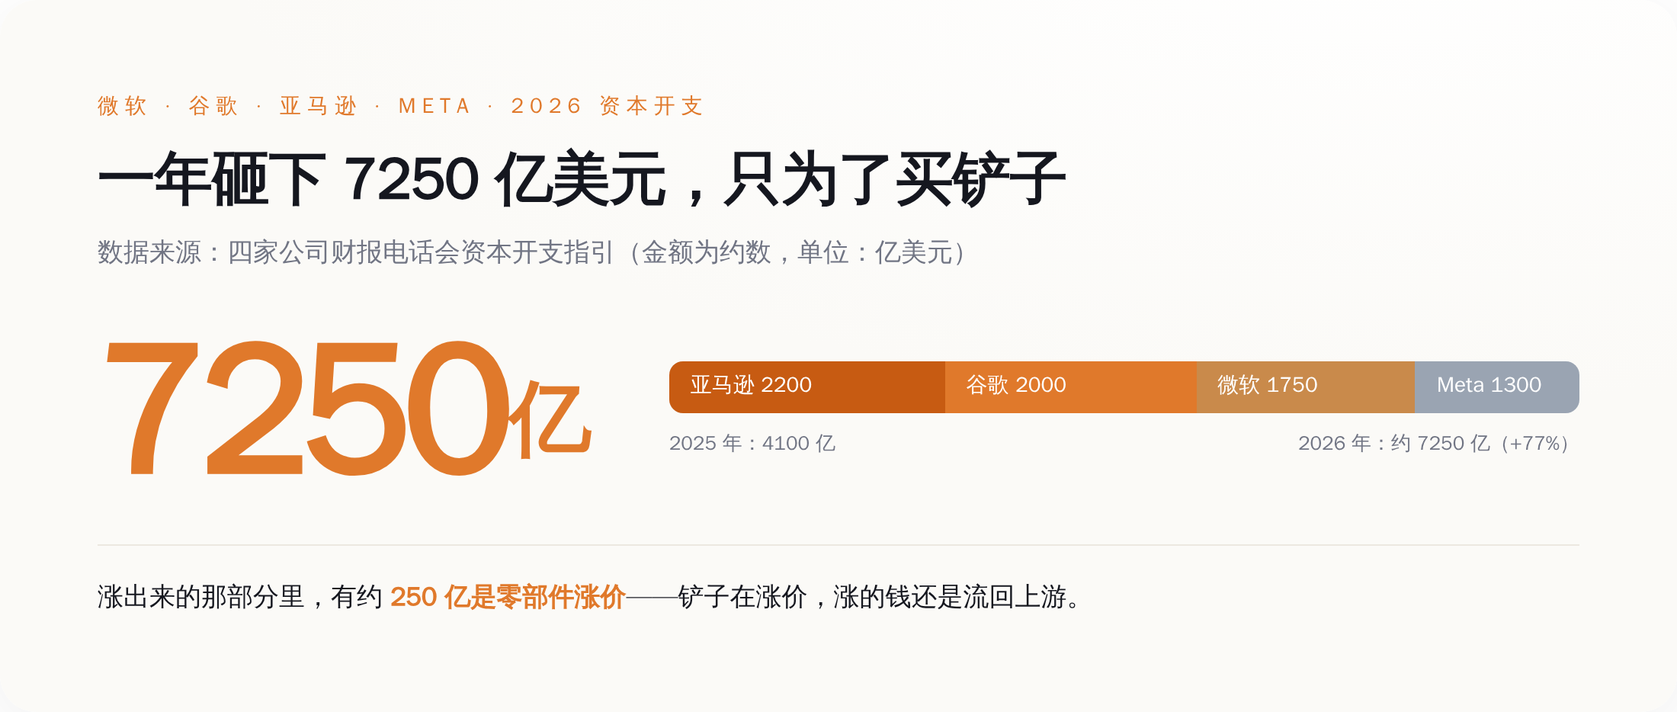
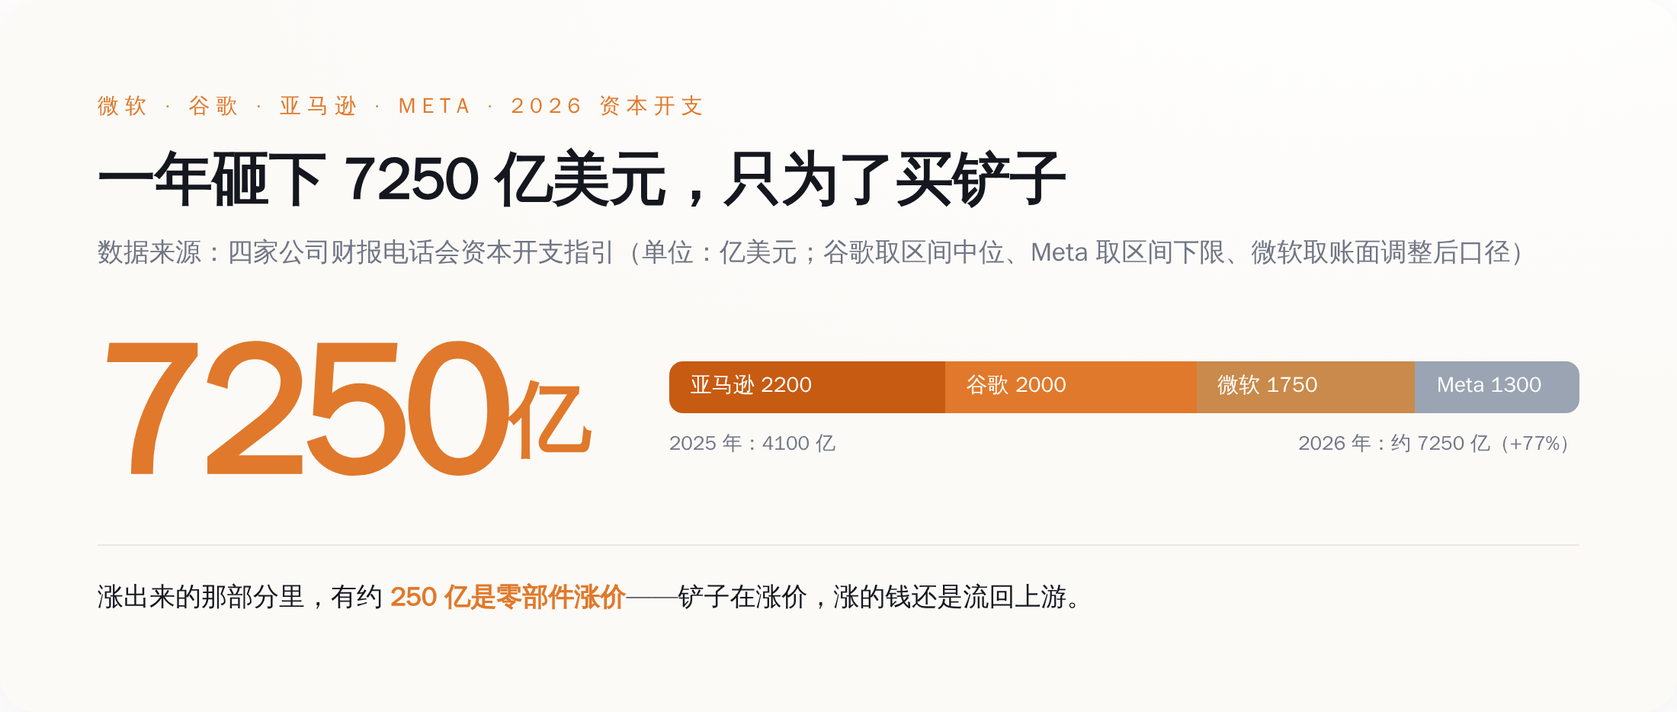
revise: 五刀审稿修订《卖铲子的在数钱》——修口径与AI味
事实刀：英伟达三个报告期显式标注（FY26全年/FY26 Q4/Q1 FY27），
微软 1900→1750 亿澄清为账面摊销口径而非现金减少，1.4万亿/6000亿
说明时间跨度不同不可直接算腰斩，capex 图标注取值口径，86% 澄清为
GPU 细分赛道份额。AI味刀：去"某种意义上/一目了然/囚徒困境"等 AI 腔，
补循环交易但书。

Claude-Session: https://claude.ai/code/session_01HJpunS2v5D8MvqY9bvffre

Changed region(s): [[0.3709, 0.3415, 0.8964, 0.3726]]

diff --git a/posts/2026-08-17/ai-shovel-sellers-count-cash/article.html b/posts/2026-08-17/ai-shovel-sellers-count-cash/article.html
@@ -384,11 +384,13 @@
 
     <p>但真正吓人的不是营收，是毛利率。</p>
 
-    <p>英伟达 2026 财年第四季度的 GAAP 毛利率是 75%。这是个什么概念？意思是它卖一块 AI 芯片，收你 100 块，成本只有 25 块，剩下 75 块是毛利。这个毛利率高到什么地步——全世界能把芯片做到这个毛利的公司，一只手数得过来，而且没一个是靠卖硬件卖出来的。单是那一个季度，英伟达的净利润就有约 430 亿美元，同比又涨了 94%。</p>
+    <p>看它 2026 财年第四季度（就是上面那个 Q1 FY27 的前一个季度）的 GAAP 毛利率：75%。这是个什么概念？意思是它卖一块 AI 芯片，收你 100 块，成本只有 25 块，剩下 75 块是毛利。这个毛利率高到什么地步——全世界能把芯片做到这个毛利的公司，一只手数得过来，而且没一个是靠卖硬件卖出来的。就这一个季度（FY26 Q4），英伟达的净利润约 430 亿美元，同比又涨了 94%。</p>
 
-    <figure style="margin:32px 0;text-align:center"><img src="images/illus_01.png" alt="图注：这轮 AI 里花掉的每 100 块钱，有一大截先流进了英伟达——它卖 AI 芯片的毛利率是罕见的 75%。" style="max-width:100%;border-radius:12px;box-shadow:0 4px 20px rgba(0,0,0,.08)"><figcaption style="font-size:13px;color:#888;margin-top:10px;line-height:1.5">图注：这轮 AI 里花掉的每 100 块钱，有一大截先流进了英伟达——它卖 AI 芯片的毛利率是罕见的 75%。</figcaption></figure>
+    <p>![图注：这轮 AI 里花掉的每 100 块钱，有一大截先流进了英伟达——它卖 AI 芯片的毛利率是罕见的 75%。](images/illus_01.png)</p>
 
-    <p>一家硬件公司，能做到软件公司才有的毛利率，说明什么？说明它没有对手。它自己也承认，全球 AI 加速器市场它占了大约 86%——剩下 AMD、英特尔们分那 14%。买家想换供应商？没得换。这不叫卖货，这叫收过路费，而且是全行业唯一一条路上的过路费。</p>
+    <p>*图注：这轮 AI 里花掉的每 100 块钱，有一大截先流进了英伟达——它卖 AI 芯片的毛利率是罕见的 75%。*</p>
+
+    <p>一家硬件公司，能做到软件公司才有的毛利率，说明什么？说明它没有对手。它自己也承认，全球 AI 加速器（也就是 GPU 这个细分赛道，不是整个芯片市场）它占了大约 86%——剩下 AMD、英特尔们分那 14%。买家想换供应商？没得换。这不叫卖货，这叫收过路费，而且是全行业唯一一条路上的过路费。</p>
 
     <p>所以你看，这轮 AI 到底谁在赚钱，答案清清楚楚地写在英伟达的财报里。它甚至不需要自己去猜哪个大模型会赢——反正淘金的都得来它这买铲子，谁赢它都赚。</p>
 
@@ -404,16 +406,18 @@
 
     <ul><li><strong>亚马逊</strong>：把 2026 年的数字抬到了约 2200 亿美元；</li>
 <li><strong>谷歌</strong>：1950 到 2050 亿之间；</li>
-<li><strong>微软</strong>：定在 1900 亿（后来因为一个会计口径的调整，摊销年限拉长，账面数字降到约 1750 亿——但钱该花还是花）；</li>
+<li><strong>微软</strong>：指引定在 1900 亿（后来财报里又出现过一个约 1750 亿的说法——那是把数据中心摊销年限拉长之后、账面表述上的变化，不代表现金真的少掏了；钱该花还是花）；</li>
 <li><strong>Meta</strong>：guidance 下限抬到 1300 到 1450 亿。</li>
 </ul>
 微软的 CFO 在电话会上还补了一句大实话：这 1900 亿里，有大约 250 亿纯粹是因为内存、存储这些零部件涨价涨出来的。翻译一下——铲子不光要买得多，铲子本身还在涨价。而涨价涨的钱，最后又流回了上游。
 
-    <figure style="margin:32px 0;text-align:center"><img src="images/illus_02.png" alt="图注：四家云巨头 2026 年合计 capex 约 7250 亿美元，同比 +77%——这是一场没人敢先停手的军备竞赛。" style="max-width:100%;border-radius:12px;box-shadow:0 4px 20px rgba(0,0,0,.08)"><figcaption style="font-size:13px;color:#888;margin-top:10px;line-height:1.5">图注：四家云巨头 2026 年合计 capex 约 7250 亿美元，同比 +77%——这是一场没人敢先停手的军备竞赛。</figcaption></figure>
+    <p>![图注：四家云巨头 2026 年合计 capex 约 7250 亿美元，同比 +77%——这是一场没人敢先停手的军备竞赛。](images/illus_02.png)</p>
 
-    <p>这四家为什么敢这么砸？因为谁都不敢先停手。停手就等于承认自己在 AI 上认输，股价当场就得挨捶。于是就变成了一个囚徒困境：明知道可能砸过头，但只要对手在砸，我就必须跟着砸。而这场谁都不敢停的军备竞赛里，卖军火的英伟达笑得最开心——你们尽管卷，卷得越狠，我卖得越多。</p>
+    <p>*图注：四家云巨头 2026 年合计 capex 约 7250 亿美元，同比 +77%——这是一场没人敢先停手的军备竞赛。*</p>
 
-    <p>有意思的是，这四家今年集体学乖了一招：土地、厂房、拉电这种用几十年的长期资产，早早锁定；但占大头成本的芯片，尽量拖到真正要用之前几个月才下单，等看清了需求再掏钱。说白了，是给自己留了个刹车。他们嘴上说"回报很确定"，身体却很诚实地在给这场豪赌加装安全带。</p>
+    <p>这四家为什么敢这么砸？因为谁都不敢先停手。停手就等于承认自己在 AI 上认输，股价当场就得挨捶。于是就变成了比谁先怂：明知道可能砸过头，但只要对手还在砸，谁先喊停，谁就先被市场当成认输的那个。而这场谁都不敢停的军备竞赛里，卖军火的英伟达笑得最开心——你们尽管卷，卷得越狠，我卖得越多。</p>
+
+    <p>今年这四家还学会一招骚操作，挺鸡贼的：土地、厂房、拉电这种用几十年的长期资产，早早锁定；但占大头成本的芯片，尽量拖到真正要用之前几个月才下单，等看清了需求再掏钱。说白了，是给自己留了脚刹车。嘴上喊着"回报很确定"，身体却很诚实地在给这场豪赌系安全带。</p>
 
     <hr>
 
@@ -427,9 +431,11 @@
 
     <p>OpenAI 2025 年一整年的实际收入是 131 亿美元，同一年它净烧掉了大约 80 亿。也就是说，赚一块钱的同时得倒贴六毛多出去。这还是在收入高速增长的前提下——增长越快，烧得越狠，因为每多服务一个用户，就得多买一份算力。</p>
 
-    <p>更刺激的是承诺。它的老板 Sam Altman 亲口说过，OpenAI 已经签下了大约 1.4 万亿美元的数据中心和算力承诺，横跨未来八年，签约对象是英伟达、AMD、博通这一串卖铲子的。1.4 万亿是什么概念？是它 2025 年收入的一百多倍。后来大概是自己也觉得这个数字太吓人，又对投资人把口径收了收，改成到 2030 年花约 6000 亿。收就收吧，6000 亿也还是它现在年收入的十几倍。</p>
+    <p>更刺激的是承诺。它的老板 Sam Altman 亲口说过，OpenAI 已经签下了大约 1.4 万亿美元的数据中心和算力承诺，横跨未来八年，签约对象是英伟达、AMD、博通这一串卖铲子的。1.4 万亿是什么概念？是它 2025 年收入的一百多倍。后来大概是自己也觉得这个数字太吓人，又对投资人换了个说法：到 2030 年花约 6000 亿。得说清楚，这俩数不是同一把尺子——1.4 万亿是往后八年的总承诺，6000 亿只算到 2030 年那四五年，不能直接拿来算"腰斩"。但就算只掐这一段，6000 亿也还是它现在年收入的十几倍。</p>
 
-    <figure style="margin:32px 0;text-align:center"><img src="images/illus_03.png" alt="图注：OpenAI 账面上的风光（年化 400 亿、冲万亿 IPO）和账本里的真相（2025 年净烧 80 亿、算力承诺 1.4 万亿），是两回事。" style="max-width:100%;border-radius:12px;box-shadow:0 4px 20px rgba(0,0,0,.08)"><figcaption style="font-size:13px;color:#888;margin-top:10px;line-height:1.5">图注：OpenAI 账面上的风光（年化 400 亿、冲万亿 IPO）和账本里的真相（2025 年净烧 80 亿、算力承诺 1.4 万亿），是两回事。</figcaption></figure>
+    <p>![图注：OpenAI 账面上的风光（年化 400 亿、冲万亿 IPO）和账本里的真相（2025 年净烧 80 亿、算力承诺 1.4 万亿），是两回事。](images/illus_03.png)</p>
+
+    <p>*图注：OpenAI 账面上的风光（年化 400 亿、冲万亿 IPO）和账本里的真相（2025 年净烧 80 亿、算力承诺 1.4 万亿），是两回事。*</p>
 
     <p>不是只有 OpenAI 一家这样。它最大的对手 Anthropic，年化收入据其自身披露正逼近 600 亿这个量级，但同样签下了约 710 亿美元的算力承诺。两家加起来，是这颗星球上最能赚钱的两个 AI 模型公司，收入合起来撑死也就一千亿出头的量级——而前面那四家云厂商，光今年一年的 capex 就是 7250 亿。</p>
 
@@ -439,19 +445,23 @@
 
     <h2>四、钱到底沉在哪：一条只往上游流的河</h2>
 
-    <p>把这三笔账并在一起看，这轮 AI 的钱到底怎么走，就一目了然了。</p>
+    <p>三笔账往一块儿一摆，这轮 AI 的钱往哪儿流，闭着眼都看得见。</p>
 
     <p>出钱的是谁？是买 ChatGPT 会员的你我，是往 OpenAI、Anthropic 里砸钱的投资人。这笔钱先进了造模型公司的账上，变成那些漂亮的"年化收入"。</p>
 
-    <p>然后呢？造模型的公司拿到钱，转头就得去租算力、买卡。它们要么直接找云厂商租，要么自己下单买英伟达的卡。钱于是从造模型的，流到了那四个挖金子的云巨头，变成 7250 亿的 capex。</p>
+    <p>然后呢？造模型的公司拿到钱，屁股还没坐热，转头就得去租算力、买卡——要么找云厂商租，要么自己下单买英伟达的卡。钱于是从造模型的，流到那四个挖金子的云巨头，变成 7250 亿的 capex，花得眼睛都不眨一下。</p>
 
     <p>再然后？这 7250 亿里的大头，是买芯片。钱于是又从挖金子的，流到了卖铲子的英伟达——以及卖电的电力公司、租地皮盖机房的、卖内存的。这些上游，个个毛利丰厚，个个赚得盆满钵满。</p>
 
-    <figure style="margin:32px 0;text-align:center"><img src="images/illus_04.png" alt="图注：钱从用户和资本出发，一路向上游流，每过一道都被抽走一层，利润最终沉淀在最上游的英伟达、电力和地皮手里。" style="max-width:100%;border-radius:12px;box-shadow:0 4px 20px rgba(0,0,0,.08)"><figcaption style="font-size:13px;color:#888;margin-top:10px;line-height:1.5">图注：钱从用户和资本出发，一路向上游流，每过一道都被抽走一层，利润最终沉淀在最上游的英伟达、电力和地皮手里。</figcaption></figure>
+    <p>![图注：钱从用户和资本出发，一路向上游流，每过一道都被抽走一层，利润最终沉淀在最上游的英伟达、电力和地皮手里。](images/illus_04.png)</p>
+
+    <p>*图注：钱从用户和资本出发，一路向上游流，每过一道都被抽走一层，利润最终沉淀在最上游的英伟达、电力和地皮手里。*</p>
 
     <p>这里有个特别拧巴的地方值得说道说道。按红杉合伙人 David Cahn 自己算的一笔账，2026 年全行业 AI 基础设施的投入大约是 1.5 万亿美元，而要让这笔投入回本，整个行业得赚回大约 3 万亿的收入。现在全行业所有 AI 公司加起来的收入，离这个数字还差着十万八千里。这个窟窿谁来填？没人知道。</p>
 
     <p>但你注意一件事：不管这 3 万亿的窟窿最后填不填得上，英伟达的钱都已经落袋了。它是先收钱、先发货的。淘金的人最后有没有挖到金子、会不会饿死在半路，跟卖铲子的没关系——铲子钱是先付的。这就是为什么英伟达能一边看着全行业为"回不了本"焦虑，一边毛利率稳稳地踩在 75%。</p>
+
+    <p>有人会抬杠：英伟达自己也往 OpenAI 这些下游公司里投钱，算不算左手倒右手、自己给自己造需求？这话有道理。但你顺着钱再看一眼就明白——它投出去的那笔钱，最后大多又变成了下游回头向它买卡的订单，钱兜一圈，还是流回了它自己的账上。这不叫拆穿它的生意，这叫它的生意闭环闭得比谁都严。</p>
 
     <p>造模型的公司呢，站在这条河的最下游，替上游所有人垫着亏损，赌的是有朝一日模型强到能把这笔账倒过来算。这个赌局也许能赢。但在它赢之前的每一天，它赚的每一块钱，都在往上游送。</p>
 
@@ -463,7 +473,7 @@
 
     <p>OpenAI 年化收入冲上 400 亿、要冲万亿 IPO，这确实是真事，也确实厉害。但这条新闻真正的潜台词是：这台印钞机马力越开越大了，而它印出来的钱，绝大部分要顺着那条河，送到英伟达、电力公司和包工头手里。IPO 募到的钱也一样——不是拿去分红的，是拿去买更多铲子、填更大窟窿的。</p>
 
-    <p>所以每一次为 OpenAI 的收入新高鼓掌，某种意义上，你都是在为英伟达的下一份财报鼓掌。淘金热里喊得最响的永远是淘金的人，但结账时笑得最稳的，永远是那个在矿场门口支起摊子卖铲子、卖水、卖牛仔裤的。这不是这轮 AI 的新鲜事，这是每一次淘金热的老规矩。</p>
+    <p>所以每一次为 OpenAI 的收入新高鼓掌，你鼓的这个掌，最后是鼓给英伟达下一份财报的。淘金热里喊得最响的永远是淘金的人，但结账时笑得最稳的，永远是那个在矿场门口支起摊子卖铲子、卖水、卖牛仔裤的。这不是这轮 AI 的新鲜事，这是每一次淘金热的老规矩。</p>
 
     <p>如果你想在这局里看懂钱，别盯着谁的模型跑分高、谁的 IPO 估值猛。盯着一个特别朴素的问题就够了：<strong>这家公司赚的钱，是留在自己账上，还是转手就交给了上游？</strong> 留得下的，是庄家；留不下的，再风光也是在给庄家打工。</p>
 

diff --git a/posts/2026-08-17/ai-shovel-sellers-count-cash/article.md b/posts/2026-08-17/ai-shovel-sellers-count-cash/article.md
@@ -24,13 +24,13 @@
 
 但真正吓人的不是营收，是毛利率。
 
-英伟达 2026 财年第四季度的 GAAP 毛利率是 75%。这是个什么概念？意思是它卖一块 AI 芯片，收你 100 块，成本只有 25 块，剩下 75 块是毛利。这个毛利率高到什么地步——全世界能把芯片做到这个毛利的公司，一只手数得过来，而且没一个是靠卖硬件卖出来的。单是那一个季度，英伟达的净利润就有约 430 亿美元，同比又涨了 94%。
+看它 2026 财年第四季度（就是上面那个 Q1 FY27 的前一个季度）的 GAAP 毛利率：75%。这是个什么概念？意思是它卖一块 AI 芯片，收你 100 块，成本只有 25 块，剩下 75 块是毛利。这个毛利率高到什么地步——全世界能把芯片做到这个毛利的公司，一只手数得过来，而且没一个是靠卖硬件卖出来的。就这一个季度（FY26 Q4），英伟达的净利润约 430 亿美元，同比又涨了 94%。
 
 ![图注：这轮 AI 里花掉的每 100 块钱，有一大截先流进了英伟达——它卖 AI 芯片的毛利率是罕见的 75%。](images/illus_01.png)
 
 *图注：这轮 AI 里花掉的每 100 块钱，有一大截先流进了英伟达——它卖 AI 芯片的毛利率是罕见的 75%。*
 
-一家硬件公司，能做到软件公司才有的毛利率，说明什么？说明它没有对手。它自己也承认，全球 AI 加速器市场它占了大约 86%——剩下 AMD、英特尔们分那 14%。买家想换供应商？没得换。这不叫卖货，这叫收过路费，而且是全行业唯一一条路上的过路费。
+一家硬件公司，能做到软件公司才有的毛利率，说明什么？说明它没有对手。它自己也承认，全球 AI 加速器（也就是 GPU 这个细分赛道，不是整个芯片市场）它占了大约 86%——剩下 AMD、英特尔们分那 14%。买家想换供应商？没得换。这不叫卖货，这叫收过路费，而且是全行业唯一一条路上的过路费。
 
 所以你看，这轮 AI 到底谁在赚钱，答案清清楚楚地写在英伟达的财报里。它甚至不需要自己去猜哪个大模型会赢——反正淘金的都得来它这买铲子，谁赢它都赚。
 
@@ -46,7 +46,7 @@
 
 - **亚马逊**：把 2026 年的数字抬到了约 2200 亿美元；
 - **谷歌**：1950 到 2050 亿之间；
-- **微软**：定在 1900 亿（后来因为一个会计口径的调整，摊销年限拉长，账面数字降到约 1750 亿——但钱该花还是花）；
+- **微软**：指引定在 1900 亿（后来财报里又出现过一个约 1750 亿的说法——那是把数据中心摊销年限拉长之后、账面表述上的变化，不代表现金真的少掏了；钱该花还是花）；
 - **Meta**：guidance 下限抬到 1300 到 1450 亿。
 
 微软的 CFO 在电话会上还补了一句大实话：这 1900 亿里，有大约 250 亿纯粹是因为内存、存储这些零部件涨价涨出来的。翻译一下——铲子不光要买得多，铲子本身还在涨价。而涨价涨的钱，最后又流回了上游。
@@ -55,9 +55,9 @@
 
 *图注：四家云巨头 2026 年合计 capex 约 7250 亿美元，同比 +77%——这是一场没人敢先停手的军备竞赛。*
 
-这四家为什么敢这么砸？因为谁都不敢先停手。停手就等于承认自己在 AI 上认输，股价当场就得挨捶。于是就变成了一个囚徒困境：明知道可能砸过头，但只要对手在砸，我就必须跟着砸。而这场谁都不敢停的军备竞赛里，卖军火的英伟达笑得最开心——你们尽管卷，卷得越狠，我卖得越多。
+这四家为什么敢这么砸？因为谁都不敢先停手。停手就等于承认自己在 AI 上认输，股价当场就得挨捶。于是就变成了比谁先怂：明知道可能砸过头，但只要对手还在砸，谁先喊停，谁就先被市场当成认输的那个。而这场谁都不敢停的军备竞赛里，卖军火的英伟达笑得最开心——你们尽管卷，卷得越狠，我卖得越多。
 
-有意思的是，这四家今年集体学乖了一招：土地、厂房、拉电这种用几十年的长期资产，早早锁定；但占大头成本的芯片，尽量拖到真正要用之前几个月才下单，等看清了需求再掏钱。说白了，是给自己留了个刹车。他们嘴上说"回报很确定"，身体却很诚实地在给这场豪赌加装安全带。
+今年这四家还学会一招骚操作，挺鸡贼的：土地、厂房、拉电这种用几十年的长期资产，早早锁定；但占大头成本的芯片，尽量拖到真正要用之前几个月才下单，等看清了需求再掏钱。说白了，是给自己留了脚刹车。嘴上喊着"回报很确定"，身体却很诚实地在给这场豪赌系安全带。
 
 ---
 
@@ -71,7 +71,7 @@
 
 OpenAI 2025 年一整年的实际收入是 131 亿美元，同一年它净烧掉了大约 80 亿。也就是说，赚一块钱的同时得倒贴六毛多出去。这还是在收入高速增长的前提下——增长越快，烧得越狠，因为每多服务一个用户，就得多买一份算力。
 
-更刺激的是承诺。它的老板 Sam Altman 亲口说过，OpenAI 已经签下了大约 1.4 万亿美元的数据中心和算力承诺，横跨未来八年，签约对象是英伟达、AMD、博通这一串卖铲子的。1.4 万亿是什么概念？是它 2025 年收入的一百多倍。后来大概是自己也觉得这个数字太吓人，又对投资人把口径收了收，改成到 2030 年花约 6000 亿。收就收吧，6000 亿也还是它现在年收入的十几倍。
+更刺激的是承诺。它的老板 Sam Altman 亲口说过，OpenAI 已经签下了大约 1.4 万亿美元的数据中心和算力承诺，横跨未来八年，签约对象是英伟达、AMD、博通这一串卖铲子的。1.4 万亿是什么概念？是它 2025 年收入的一百多倍。后来大概是自己也觉得这个数字太吓人，又对投资人换了个说法：到 2030 年花约 6000 亿。得说清楚，这俩数不是同一把尺子——1.4 万亿是往后八年的总承诺，6000 亿只算到 2030 年那四五年，不能直接拿来算"腰斩"。但就算只掐这一段，6000 亿也还是它现在年收入的十几倍。
 
 ![图注：OpenAI 账面上的风光（年化 400 亿、冲万亿 IPO）和账本里的真相（2025 年净烧 80 亿、算力承诺 1.4 万亿），是两回事。](images/illus_03.png)
 
@@ -85,11 +85,11 @@ OpenAI 2025 年一整年的实际收入是 131 亿美元，同一年它净烧掉
 
 ## 四、钱到底沉在哪：一条只往上游流的河
 
-把这三笔账并在一起看，这轮 AI 的钱到底怎么走，就一目了然了。
+三笔账往一块儿一摆，这轮 AI 的钱往哪儿流，闭着眼都看得见。
 
 出钱的是谁？是买 ChatGPT 会员的你我，是往 OpenAI、Anthropic 里砸钱的投资人。这笔钱先进了造模型公司的账上，变成那些漂亮的"年化收入"。
 
-然后呢？造模型的公司拿到钱，转头就得去租算力、买卡。它们要么直接找云厂商租，要么自己下单买英伟达的卡。钱于是从造模型的，流到了那四个挖金子的云巨头，变成 7250 亿的 capex。
+然后呢？造模型的公司拿到钱，屁股还没坐热，转头就得去租算力、买卡——要么找云厂商租，要么自己下单买英伟达的卡。钱于是从造模型的，流到那四个挖金子的云巨头，变成 7250 亿的 capex，花得眼睛都不眨一下。
 
 再然后？这 7250 亿里的大头，是买芯片。钱于是又从挖金子的，流到了卖铲子的英伟达——以及卖电的电力公司、租地皮盖机房的、卖内存的。这些上游，个个毛利丰厚，个个赚得盆满钵满。
 
@@ -101,6 +101,8 @@ OpenAI 2025 年一整年的实际收入是 131 亿美元，同一年它净烧掉
 
 但你注意一件事：不管这 3 万亿的窟窿最后填不填得上，英伟达的钱都已经落袋了。它是先收钱、先发货的。淘金的人最后有没有挖到金子、会不会饿死在半路，跟卖铲子的没关系——铲子钱是先付的。这就是为什么英伟达能一边看着全行业为"回不了本"焦虑，一边毛利率稳稳地踩在 75%。
 
+有人会抬杠：英伟达自己也往 OpenAI 这些下游公司里投钱，算不算左手倒右手、自己给自己造需求？这话有道理。但你顺着钱再看一眼就明白——它投出去的那笔钱，最后大多又变成了下游回头向它买卡的订单，钱兜一圈，还是流回了它自己的账上。这不叫拆穿它的生意，这叫它的生意闭环闭得比谁都严。
+
 造模型的公司呢，站在这条河的最下游，替上游所有人垫着亏损，赌的是有朝一日模型强到能把这笔账倒过来算。这个赌局也许能赢。但在它赢之前的每一天，它赚的每一块钱，都在往上游送。
 
 ---
@@ -111,7 +113,7 @@ OpenAI 2025 年一整年的实际收入是 131 亿美元，同一年它净烧掉
 
 OpenAI 年化收入冲上 400 亿、要冲万亿 IPO，这确实是真事，也确实厉害。但这条新闻真正的潜台词是：这台印钞机马力越开越大了，而它印出来的钱，绝大部分要顺着那条河，送到英伟达、电力公司和包工头手里。IPO 募到的钱也一样——不是拿去分红的，是拿去买更多铲子、填更大窟窿的。
 
-所以每一次为 OpenAI 的收入新高鼓掌，某种意义上，你都是在为英伟达的下一份财报鼓掌。淘金热里喊得最响的永远是淘金的人，但结账时笑得最稳的，永远是那个在矿场门口支起摊子卖铲子、卖水、卖牛仔裤的。这不是这轮 AI 的新鲜事，这是每一次淘金热的老规矩。
+所以每一次为 OpenAI 的收入新高鼓掌，你鼓的这个掌，最后是鼓给英伟达下一份财报的。淘金热里喊得最响的永远是淘金的人，但结账时笑得最稳的，永远是那个在矿场门口支起摊子卖铲子、卖水、卖牛仔裤的。这不是这轮 AI 的新鲜事，这是每一次淘金热的老规矩。
 
 如果你想在这局里看懂钱，别盯着谁的模型跑分高、谁的 IPO 估值猛。盯着一个特别朴素的问题就够了：**这家公司赚的钱，是留在自己账上，还是转手就交给了上游？** 留得下的，是庄家；留不下的，再风光也是在给庄家打工。
 
